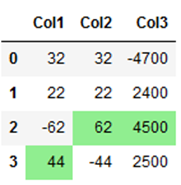
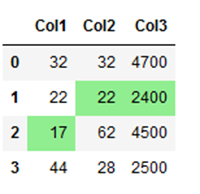
update post data manipulation

diff --git a/content/post/2019-03-12-data-manipulation.html b/content/post/2019-03-12-data-manipulation.html
@@ -49,8 +49,9 @@ output:
 </ul></li>
 <li><a href="#function-for-colouring-specific-values">6 Function for colouring specific values</a>
 <ul>
-<li><a href="#negative-values">6.1 negative values</a></li>
-<li><a href="#highest-values">6.2 highest values</a></li>
+<li><a href="#highest-values">6.1 highest values</a></li>
+<li><a href="#lowest-values">6.2 lowest values</a></li>
+<li><a href="#negative-values">6.3 negative values</a></li>
 </ul></li>
 <li><a href="#conclusion">7 Conclusion</a></li>
 </ul>
@@ -329,15 +330,33 @@ df</code></pre>
 <div id="function-for-colouring-specific-values" class="section level1">
 <h1>6 Function for colouring specific values</h1>
 <p>I always find it quite nice to be able to color-modify Python’s output so that you can immediately see important figures.</p>
-<div id="negative-values" class="section level2">
-<h2>6.1 negative values</h2>
-<p>Here is an example of how to highlight negative values in a data set:</p>
-<pre class="r"><code>negative_values_df = pd.DataFrame({&#39;Col1&#39;: [32,22,-62,44],
-                                   &#39;Col2&#39;: [32,22,62,-44],
-                                   &#39;Col3&#39;: [-4700, 2400,4500,2500]})
-negative_values_df</code></pre>
+<div id="highest-values" class="section level2">
+<h2>6.1 highest values</h2>
+<p>Sometimes it is useful, e.g. when you want to compare the performance values of algorithms during model training,
+the highest values are displayed in color.</p>
+<pre class="r"><code>colouring_df = pd.DataFrame({&#39;Col1&#39;: [32,22,17,44],
+                             &#39;Col2&#39;: [32,22,62,28],
+                             &#39;Col3&#39;: [4700, 2400,4500,2500]})
+colouring_df</code></pre>
 <p><img src="/post/2019-03-12-data-manipulation_files/p3z14.png" /></p>
-<pre class="r"><code># Function for colouring (negative values red and positive values black)
+<pre class="r"><code>colouring_df.style.highlight_max(color = &#39;lightgreen&#39;, axis = 0)</code></pre>
+<p><img src="/post/2019-03-12-data-manipulation_files/p3z15.png" /></p>
+</div>
+<div id="lowest-values" class="section level2">
+<h2>6.2 lowest values</h2>
+<p>Likewise, you can have even the lowest values displayed in color:</p>
+<pre class="r"><code>colouring_df.style.highlight_min(color = &#39;lightgreen&#39;, axis = 0)</code></pre>
+<p><img src="/post/2019-03-12-data-manipulation_files/p3z16.png" /></p>
+</div>
+<div id="negative-values" class="section level2">
+<h2>6.3 negative values</h2>
+<p>Here is an example of how to highlight negative values in a data set:</p>
+<pre class="r"><code>negative_values_df = pd.DataFrame({&#39;Col1&#39;: [-32,22,-62,44],
+                                   &#39;Col2&#39;: [32,-22,62,-44],
+                                   &#39;Col3&#39;: [-4700, 2400,-4500,2500]})
+negative_values_df</code></pre>
+<p><img src="/post/2019-03-12-data-manipulation_files/p3z17.png" /></p>
+<pre class="r"><code># Function for colouring(negative values red and positive values black)
 
 def highlight_neg_values(s): 
     if s.dtype == np.object: 
@@ -348,15 +367,7 @@ def highlight_neg_values(s):
             for cell in is_neg] 
    
 negative_values_df.style.apply(highlight_neg_values)</code></pre>
-<p><img src="/post/2019-03-12-data-manipulation_files/p3z15.png" /></p>
-</div>
-<div id="highest-values" class="section level2">
-<h2>6.2 highest values</h2>
-<p>Of course, we can also output the highest values. This is useful, for example, if you want to compare the performance values of algorithms during model training.</p>
-<pre class="r"><code>highest_values_df = negative_values_df.copy()
-
-highest_values_df.style.highlight_max(color = &#39;lightgreen&#39;, axis = 0)</code></pre>
-<p><img src="/post/2019-03-12-data-manipulation_files/p3z16.png" /></p>
+<p><img src="/post/2019-03-12-data-manipulation_files/p3z18.png" /></p>
 </div>
 </div>
 <div id="conclusion" class="section level1">
